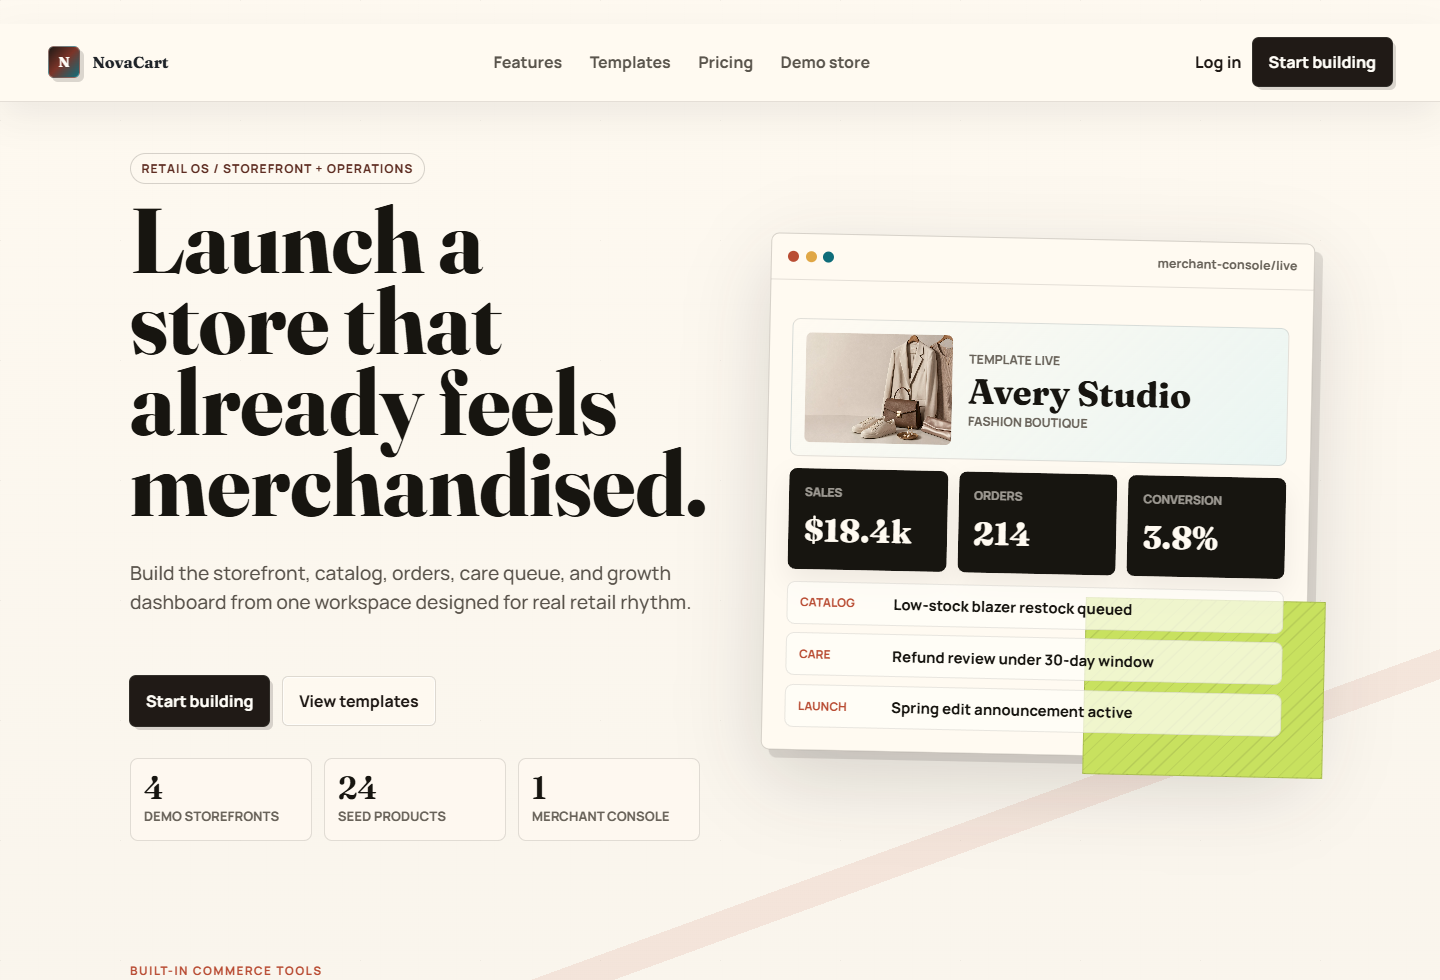
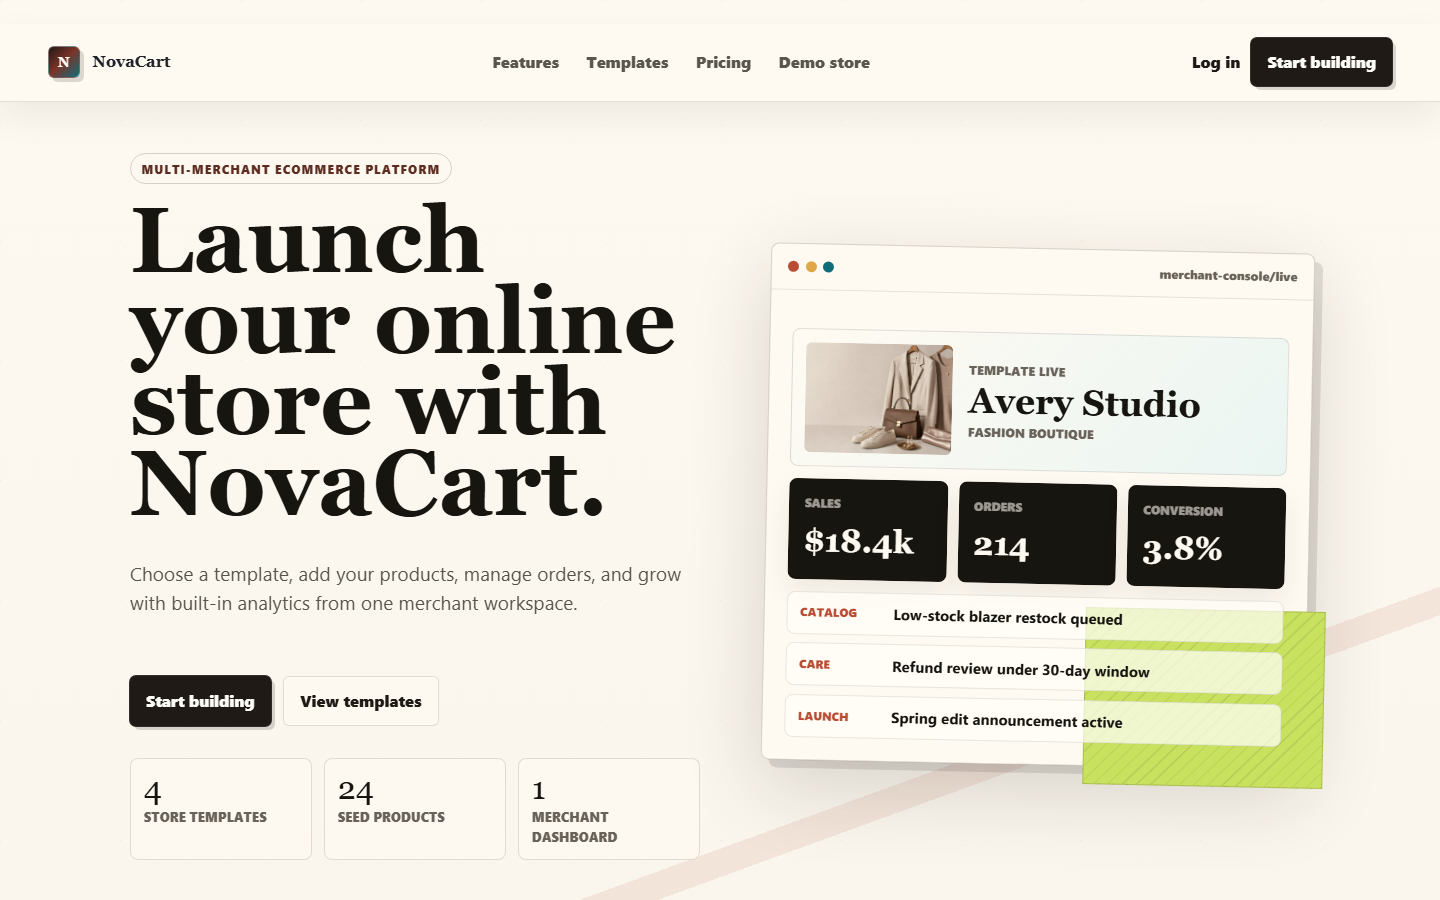
docs: refresh platform hero preview

diff --git a/frontend/src/components/PlatformHero.vue b/frontend/src/components/PlatformHero.vue
@@ -1,9 +1,9 @@
 <template>
   <section class="platform-hero">
     <div class="platform-hero-copy">
-      <p class="eyebrow">NovaCart ecommerce website builder</p>
-      <h1>Launch a store that already feels merchandised.</h1>
-      <p>Build the storefront, catalog, orders, care queue, and growth dashboard from one workspace designed for real retail rhythm.</p>
+      <p class="eyebrow">Multi-merchant ecommerce platform</p>
+      <h1>Launch your online store with NovaCart.</h1>
+      <p>Choose a template, add your products, manage orders, and grow with built-in analytics from one merchant workspace.</p>
       <div class="hero-actions">
         <RouterLink class="primary-button" to="/onboarding">Start building</RouterLink>
         <RouterLink class="secondary-button" to="/templates">View templates</RouterLink>
@@ -11,7 +11,7 @@
       <dl class="platform-proof-list" aria-label="NovaCart launch signals">
         <div>
           <dt>4</dt>
-          <dd>demo storefronts</dd>
+          <dd>store templates</dd>
         </div>
         <div>
           <dt>24</dt>
@@ -19,7 +19,7 @@
         </div>
         <div>
           <dt>1</dt>
-          <dd>merchant console</dd>
+          <dd>merchant dashboard</dd>
         </div>
       </dl>
     </div>

diff --git a/frontend/src/assets/styles.css b/frontend/src/assets/styles.css
@@ -5388,7 +5388,7 @@ p {
   border-radius: 999px;
   padding: 0.35rem 0.65rem;
   color: #5e2d22;
-  content: "Retail OS / storefront + operations";
+  content: "Multi-merchant ecommerce platform";
   font-size: 0.76rem;
   font-weight: 850;
   letter-spacing: 0.08em;